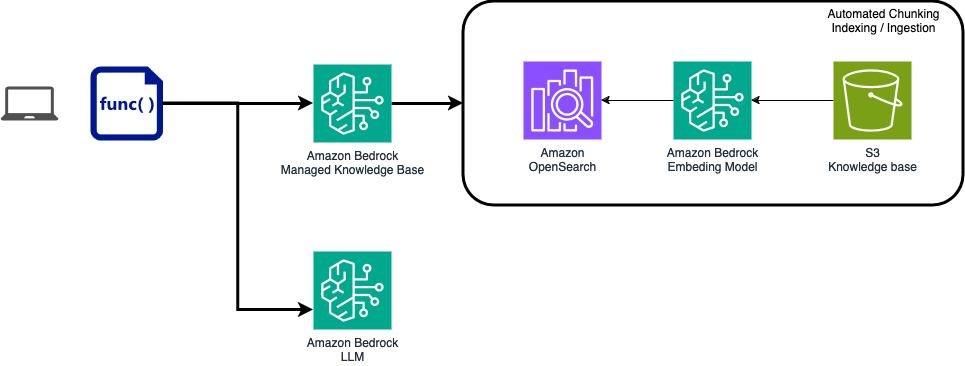
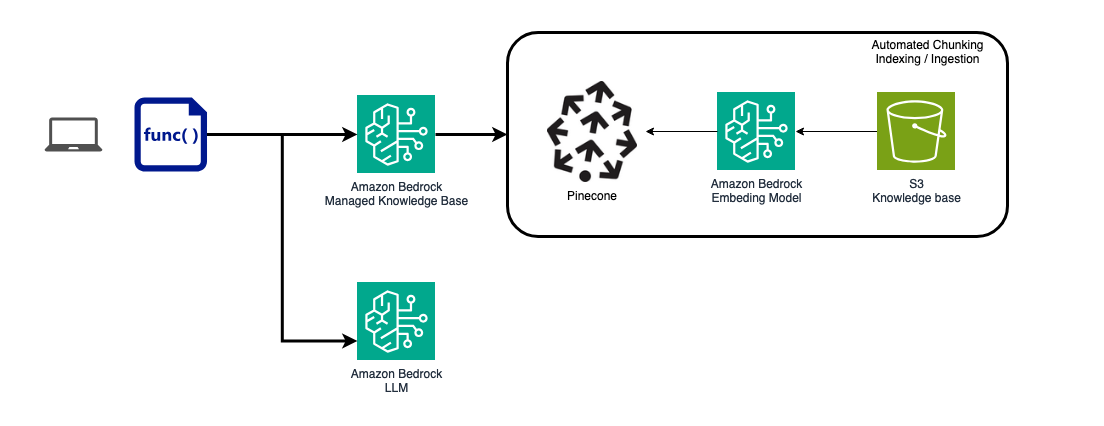
feat: pinecone bedrock rag tp added

Changed region(s): [[0.0, 0.0, 1.0, 0.9918]]

diff --git a/Project/vanilla_project/README.md b/Project/vanilla_project/README.md
@@ -26,11 +26,11 @@ In this lab, we will build an advanced chatbot application using Amazon Bedrock 
 ├── docs
 │   └── 2022-Shareholder-Letter.pdf
 ├── images
-│   ├── xxxx.png
-│   ├── image_1.png
-│   ├── image_2.png
-│   ├── image_3.png
-│   └── image_4.png
+│   ├── arnSecret.png
+│   .
+│   .
+│   ├
+│   └── sync.png
 └── main.ipynb
 ```
 
@@ -77,7 +77,7 @@ pip install -r ./Project/requirements.txt
    Enter:
    - Access Key ID
    - Secret Access Key
-   - Default region name: eu-west-3
+   - Default region name: us-east-1
 
 2. Verify your profile:
    ```bash
@@ -96,34 +96,73 @@ pip install -r ./Project/requirements.txt
    ```python
    bucket_name = "mybucketname1234"
    ```
-3. Follow the notebook cells to create the bucket and upload the document
 
-### 5. Create Knowledge Base in Amazon Bedrock
-
-1. Go to Amazon Bedrock Service and select "Knowledge Base"
-   ![Knowledge Base Selection](images/image_1.png)
-
-2. Create a new Knowledge Base using the PDFs uploaded to your S3 bucket
-   - Select the S3 bucket (not the individual file)
-   - Choose OpenSearch Vector Database
-   ![OpenSearch Selection](images/image_2.png)
-
-3. Wait for the Knowledge Base to be ready and sync
-
-## Code Integration
-
-### 1. Get Knowledge Base ID
-
-- Locate the Knowledge Base ID in the Amazon Bedrock console
-- Insert it into your code where required
-  ![Knowledge Base ID](images/image_3.png)
-
-### 2. Add AWS Profile to API Calls
+3. Add AWS Profile to API Calls
 
 - Ensure all API calls reference your configured AWS profile name
 - Replace `'<default_profile>'` in the code with your profile name
 
+4. Follow the notebook cells to create the bucket and upload the document
 
+
+### 5. Pinecone Setup
+1. Create an account on https://login.pinecone.io
+2. Do the basic setup (Q&A Chatbot, AWS ect)
+3. Save somewhere the **apiKey** !
+3. Create an index
+![IndexCreation](images/create_index.png)
+4. Setup the index: give a name, enter the dimension of the vectors to **1024** and leave all the other values by default.
+![IndexSetup](images/index_setup.png)
+5. Save somewhere the index host address
+![Endpoint](images/endpoint.png)
+
+
+### 6. Secret Manager Setup
+1. Log into the AWS Console. You must be on  **us-east-1** region !
+2. Go to Secret Manager Service
+![SManager](images/smanager.png)
+2. Create a secret
+![createSecret](images/createsecret.png)
+3. Enter the key value pair (apiKey and the value you saved)
+![kvPair](images/kvPair.png)
+4. Give a name to your Secret (Please use a personal prefix like your name)
+![secretName](images/secretName.png)
+5. Finish the process leaving all the values by default
+6. Once your secret created, click on it and retreive the arn as follow
+![arnSecret](images/arnSecret.png)
+
+
+### 7. Create Knowledge Base in Amazon Bedrock
+
+1. Go to Amazon Bedrock Service, select "Knowledge Base" and create a vector store
+   ![Knowledge Base Selection](images/createVectorStore.png)
+2. Select S3 as a Data Source, Give a name to this Knowledge Base. (Please use a personal prefix like your name)
+3. Browse S3 and select the s3 bucket you created earlier.
+![browseS3](images/browseS3.png)
+4. Make sure the finale path as a **/** at the end.
+![s3Path](images/s3Path.png)
+5. Select Titan Text Embeddings v2 fot he Embeddings Model and Pinecone as the VectorDB.
+![selectEmbed](images/selectEmbed.png)
+6. Enter the Pinecone Infiormation Required, leave the rest by default.
+![enterPineconeInfo](images/enterPineconeInfo.png)
+7. Once the Knowledge Base Created by Bedrock you can Sync the data.
+![sync](images/sync.png)
+7. Retrieve the knowledge base ID of your Knowledge Base.
+![kbId](images/kbId.png)
+8. Once done you can test you RAG using the user interface and select the conversational LLM you want.
+![interface](images/interface.png)
+
+
+
+## 8. Code Integration
+
+1. Add AWS Profile to API Calls
+
+- Ensure all API calls reference your configured AWS profile name
+- Replace `'<default_profile>'` in the code with your profile name
+
+2. Put you knowledge base ID into the code
+![kbIdCode](images/kbIdCode.png)
 ## Running the Application
 
 1. Navigate to the project root folder

diff --git a/Project/README.md b/Project/README.md
@@ -11,7 +11,7 @@ The goal of this project is to give you hands-on experience in designing and bui
 
 ### **Steps to Build Your Chatbot**  
 
-#### **Day 1: Concept and Design**  
+#### **Concept and Design**  
 1. **Understand the Problem Domain:**  
    - Choose a domain for your chatbot (e.g., customer support, education, or healthcare).  
    - Define key functionalities.  
@@ -24,7 +24,7 @@ The goal of this project is to give you hands-on experience in designing and bui
    - Set you credentials  
    - Familiarize yourself with S3 and Amazon Bedrock.  
 
-#### **Day 2: Knowledge Base and Data Preparation**  
+#### **Knowledge Base and Data Preparation**  
 1. **Create a Knowledge Base:**  
    - Gather relevant documents for your chatbot’s domain.  
    - Preprocess and format data (e.g., clean up text, convert to JSON).  
@@ -33,7 +33,7 @@ The goal of this project is to give you hands-on experience in designing and bui
 2. **Build an Index:**  
    - Using Amazon Bedrock Knowledge Base, build a VectorDB
 
-#### **Day 3: Model Setup**  
+#### **Model Setup**  
 1. **Select a Pre-trained Model:**  
    - Use LLM available on Amazon Bedrock like **Claude 3 Haiku/ Mistral ...**
 
@@ -41,7 +41,7 @@ The goal of this project is to give you hands-on experience in designing and bui
    - Combine retrieval (from the index) with generation (model inference).  
    - Test the pipeline locally using sample questions.  
  
-#### **Day 4: Frontend and Final Testing**  
+#### **Frontend and Final Testing**  
 **Create a Simple User Interface (UI):**  
    - Build a web-based or terminal-based chatbot interface using Streamlit.  
    - Make sure you can create multiple conversation
